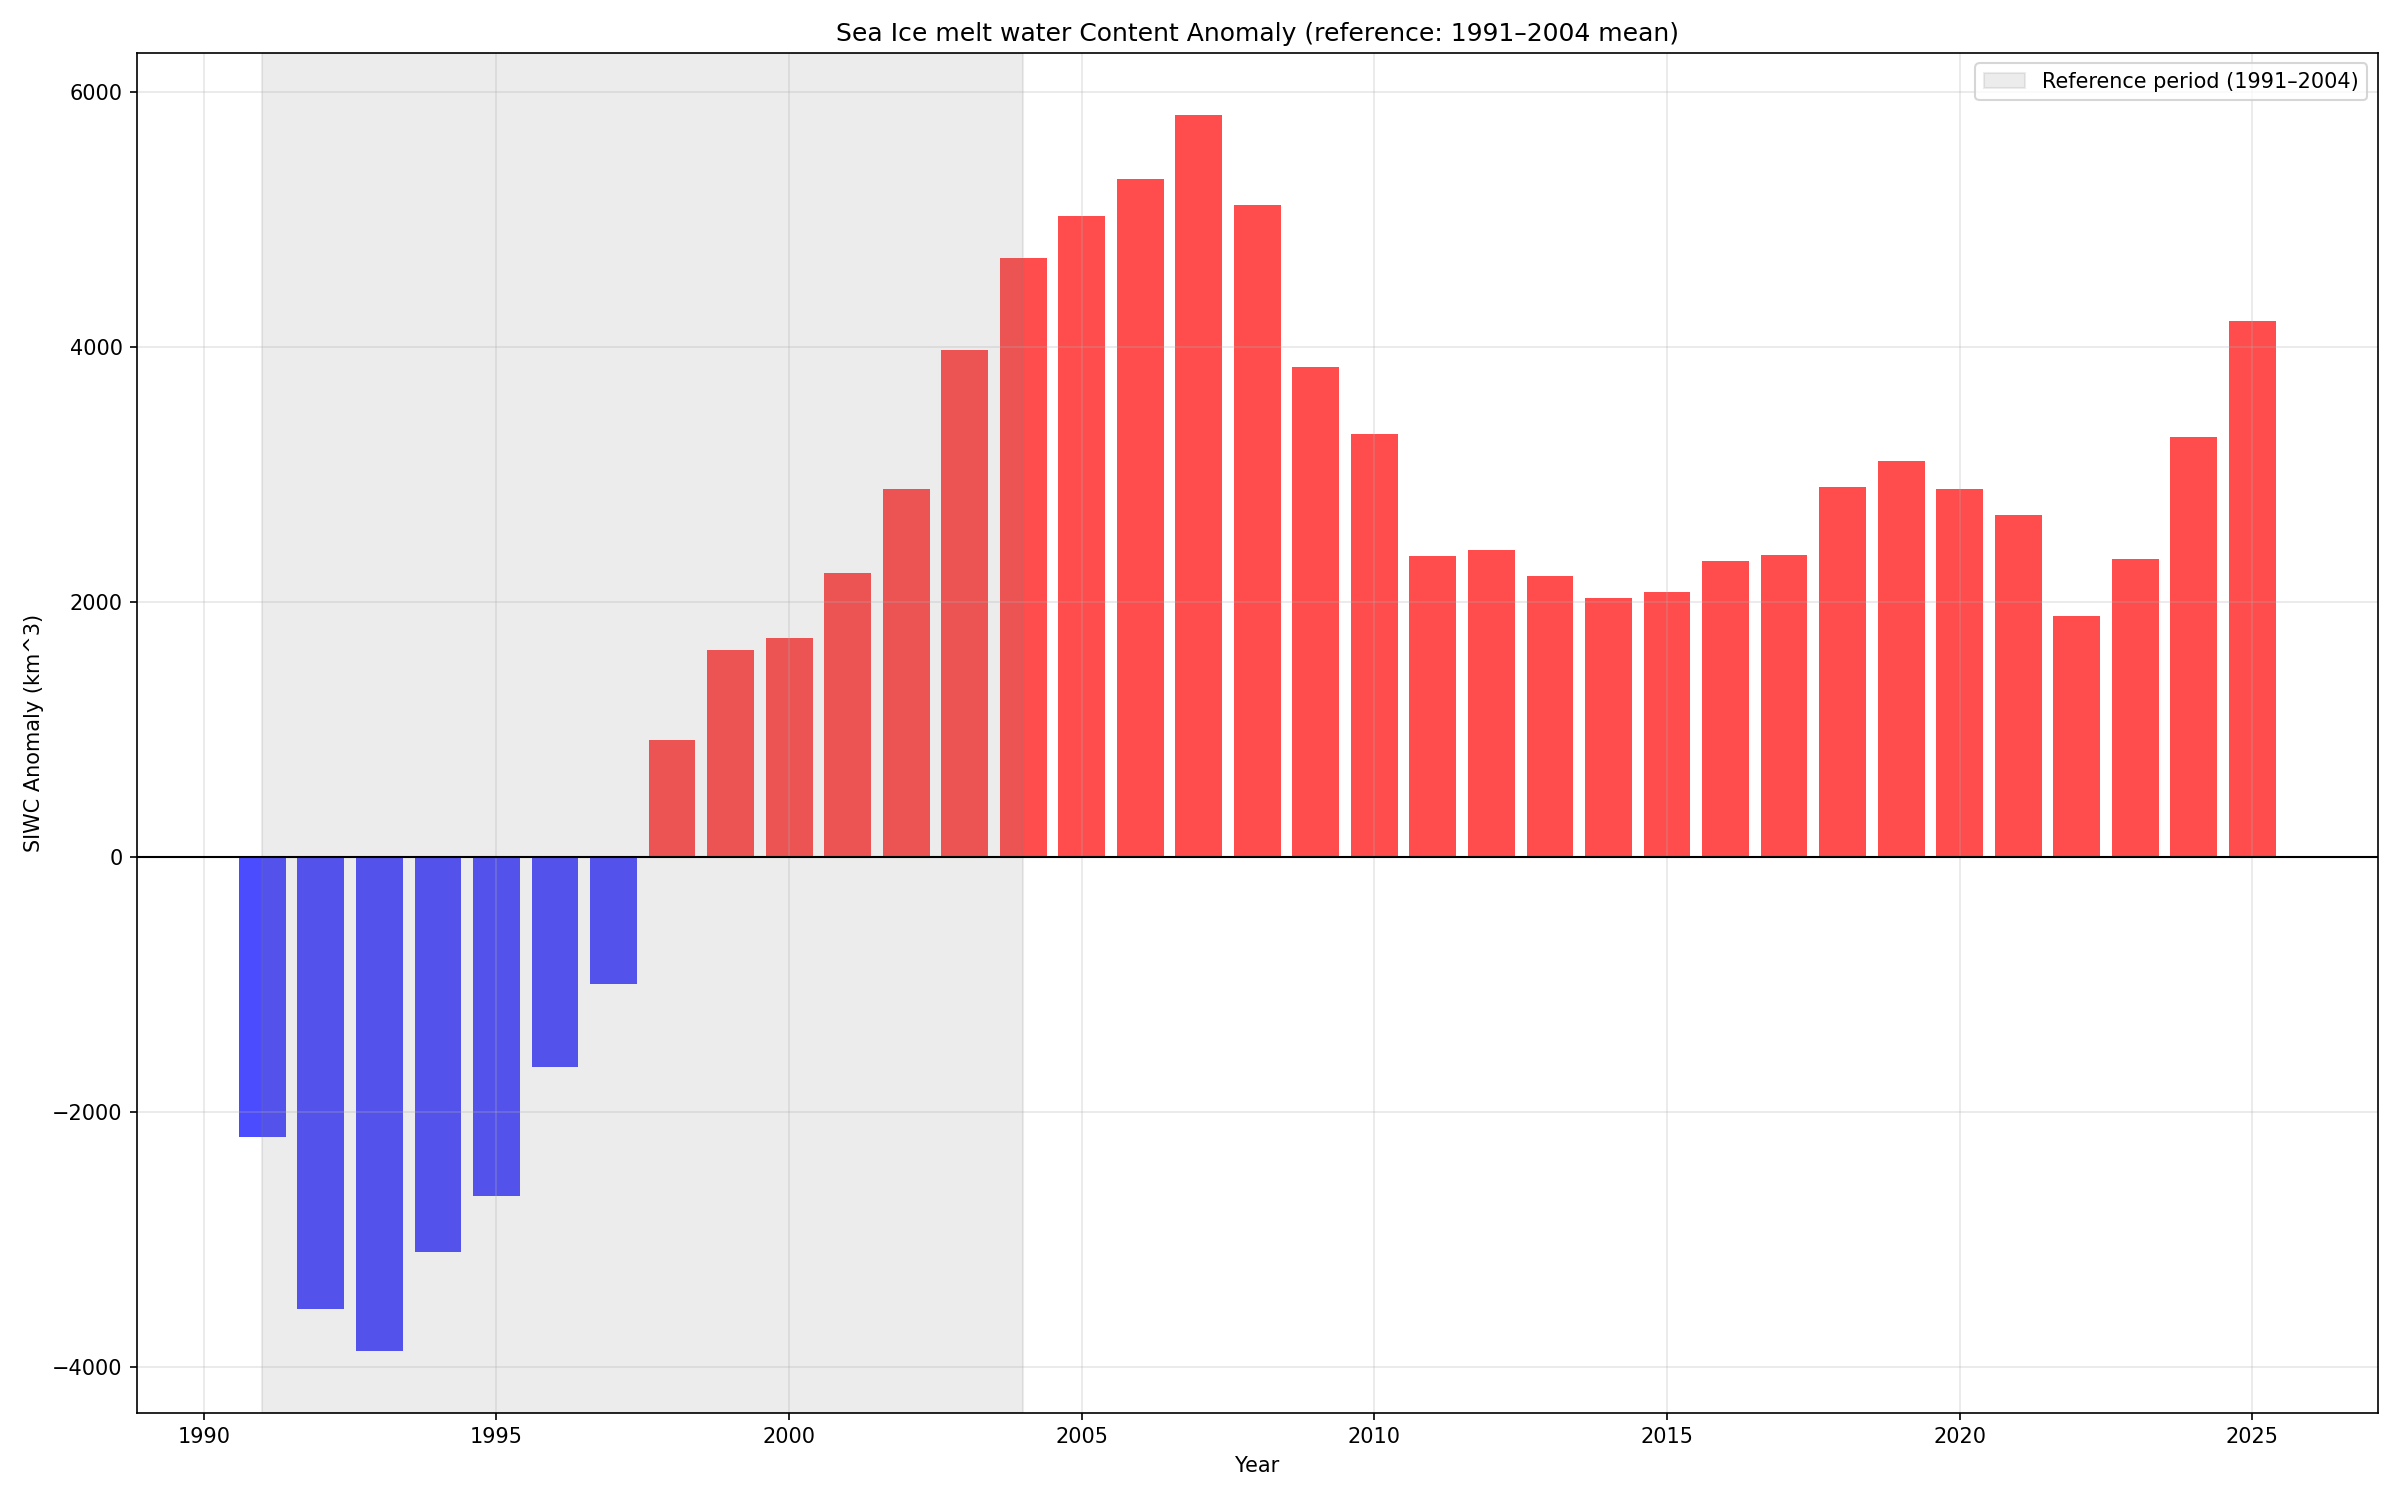
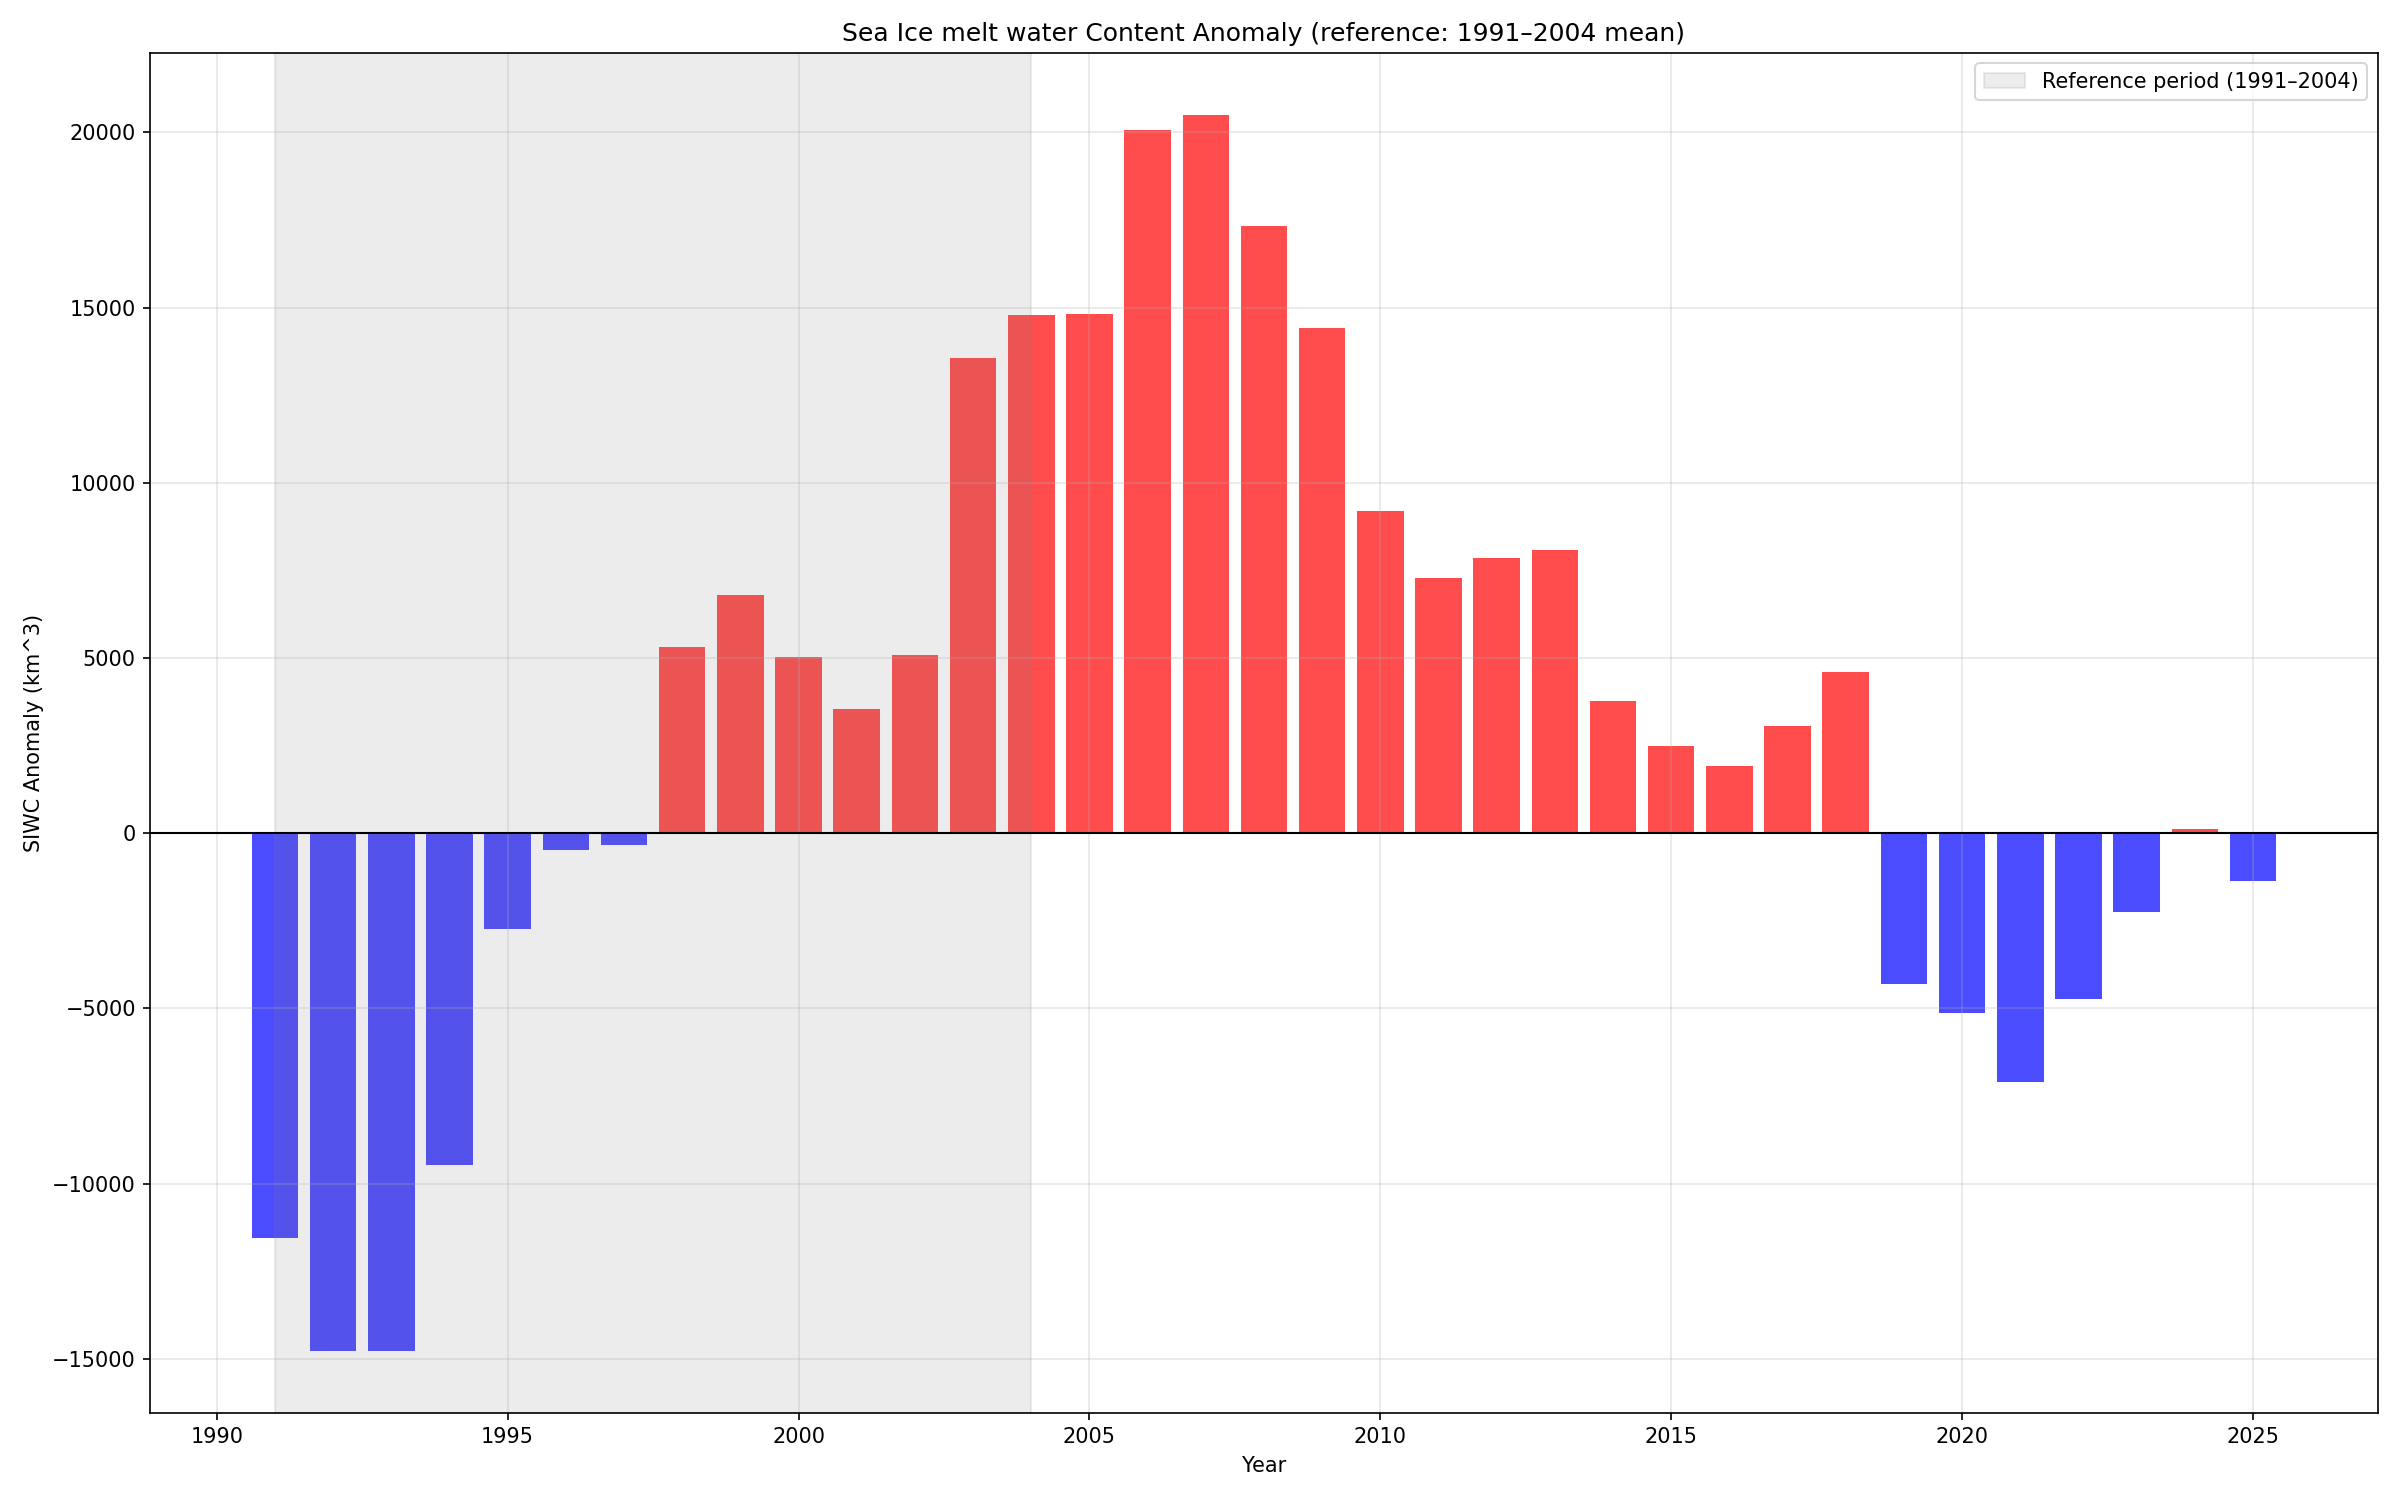
updated depth transistions based on paper source

diff --git a/PINN2/mwc.py b/PINN2/mwc.py
@@ -99,6 +99,9 @@ for model_year in model_years:
         # ============================================================
         # ENDMEMBERS https://pmc.ncbi.nlm.nih.gov/articles/PMC5852023
         # ============================================================
+        # ============================================================
+        # Depth Transitions https://link.springer.com/article/10.1007/s41976-025-00269-6
+        # ============================================================
 
         # End-member values
         d18O_pacific = -1.1  # upper ocean (Beaufort Gyre halocline)
@@ -122,7 +125,7 @@ for model_year in model_years:
             return d18O_pacific * (1 - w) + d18O_atlantic * w
 
         def d18O_seaice_endmember(
-            depth, z_transition=50, width=15, d18O_shallow=-2.0, d18O_deep=d18O_atlantic
+            depth, z_transition=25, width=5, d18O_shallow=-2.0, d18O_deep=d18O_pacific
         ):
             """
             Smooth depth-varying sea ice melt d18O end-member.
@@ -150,7 +153,7 @@ for model_year in model_years:
             return d18O_shallow + w * (d18O_deep - d18O_shallow)
 
         def d18O_meteoric_endmember(
-            depth, z_transition=200, width=50, d18O_shallow=-20.0, d18O_deep=-5.0
+            depth, z_transition=200, width=50, d18O_shallow=-20.0, d18O_deep=d18O_atlantic
         ):
             """
             Smooth depth-varying meteoric water d18O end-member.
@@ -182,9 +185,7 @@ for model_year in model_years:
 
         # d180 endmembers
         d18O_ice = d18O_seaice_endmember(depth=depth)
-        d18O_meteoric = (
-            -20.0
-        )  # using depth varying endmember results in very high meteoric fractions
+        d18O_meteoric = d18O_meteoric_endmember(depth=depth) #-20.0
         d18O_ocean = d18O_ocean_endmember(depth=depth)
 
         # ============================================================
